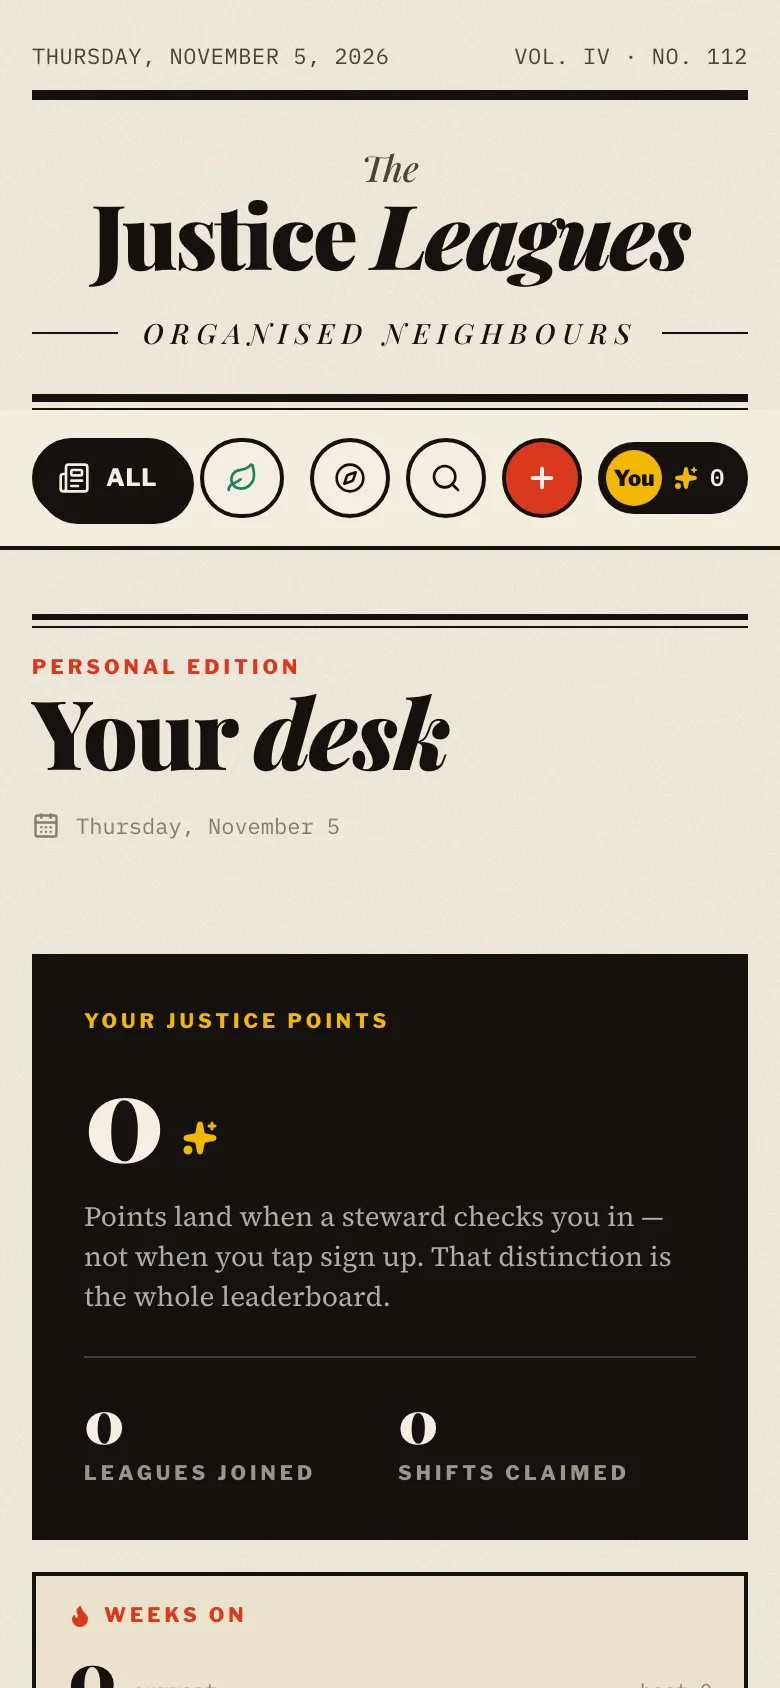
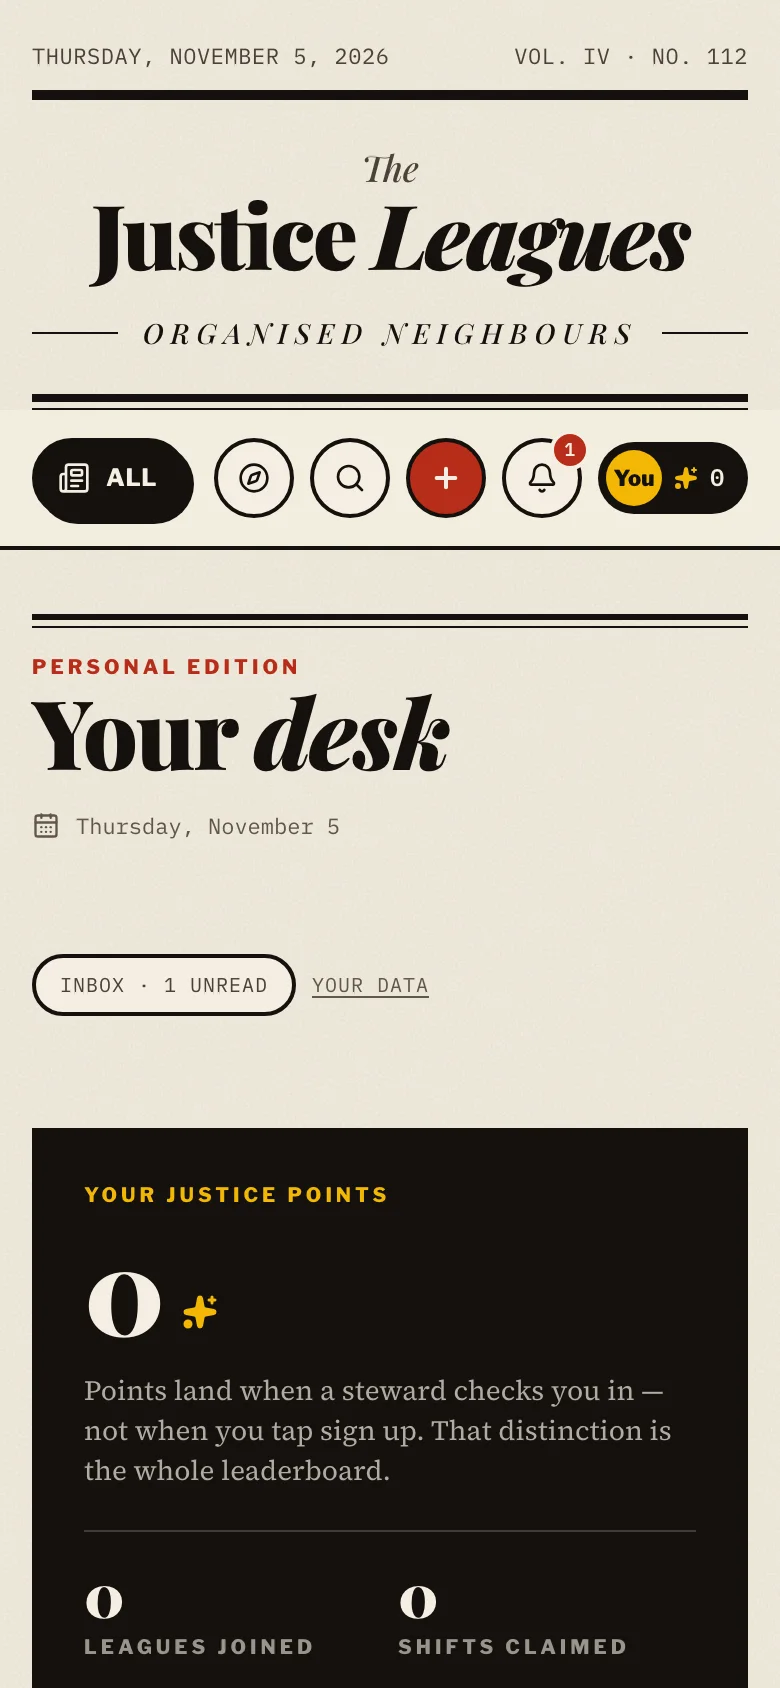
Document Phase 5 and refresh the visual set

diff --git a/README.md b/README.md
@@ -4,14 +4,14 @@
 
 <div align="center">
   <a href="https://github.com/Abhinav-Prabhakar/JusticeLeagues/stargazers"><img src="https://img.shields.io/github/stars/Abhinav-Prabhakar/JusticeLeagues?style=flat-square&labelColor=14110d&color=f2b705" alt="Stars" /></a>
-  <a href="https://github.com/Abhinav-Prabhakar/JusticeLeagues/commits/main"><img src="https://img.shields.io/github/last-commit/Abhinav-Prabhakar/JusticeLeagues?style=flat-square&labelColor=14110d&color=1b7f5c" alt="Last commit" /></a>
-  <a href="LICENSE"><img src="https://img.shields.io/github/license/Abhinav-Prabhakar/JusticeLeagues?style=flat-square&labelColor=14110d&color=d9381e" alt="License" /></a>
-  <img src="https://img.shields.io/badge/tests-98_unit_%C2%B7_24_e2e-1b7f5c?style=flat-square&labelColor=14110d" alt="Tests" />
+  <a href="https://github.com/Abhinav-Prabhakar/JusticeLeagues/commits/main"><img src="https://img.shields.io/github/last-commit/Abhinav-Prabhakar/JusticeLeagues?style=flat-square&labelColor=14110d&color=14694d" alt="Last commit" /></a>
+  <a href="LICENSE"><img src="https://img.shields.io/github/license/Abhinav-Prabhakar/JusticeLeagues?style=flat-square&labelColor=14110d&color=b82d19" alt="License" /></a>
+  <img src="https://img.shields.io/badge/tests-113_unit_%C2%B7_28_e2e-14694d?style=flat-square&labelColor=14110d" alt="Tests" />
   <img src="https://img.shields.io/badge/react-19-2347c5?style=flat-square&labelColor=14110d" alt="React 19" />
   <img src="https://img.shields.io/badge/typescript-strict-2347c5?style=flat-square&labelColor=14110d" alt="TypeScript" />
   <img src="https://img.shields.io/badge/sqlite-local_only-f2b705?style=flat-square&labelColor=14110d" alt="SQLite" />
-  <img src="https://img.shields.io/badge/node-%E2%89%A522.5-1b7f5c?style=flat-square&labelColor=14110d" alt="Node 22.5+" />
-  <a href="https://abhinav-prabhakar.github.io/JusticeLeagues/"><img src="https://img.shields.io/badge/static_edition-live-1b7f5c?style=flat-square&labelColor=14110d" alt="Static edition" /></a>
+  <img src="https://img.shields.io/badge/node-%E2%89%A522.5-14694d?style=flat-square&labelColor=14110d" alt="Node 22.5+" />
+  <a href="https://abhinav-prabhakar.github.io/JusticeLeagues/"><img src="https://img.shields.io/badge/static_edition-live-14694d?style=flat-square&labelColor=14110d" alt="Static edition" /></a>
 </div>
 
 <h3 align="center">A local-first civic newspaper for citywide leagues, neighbourhood chapters,<br/>volunteer shifts, and Justice Points.</h3>
@@ -42,6 +42,12 @@
 - **Badges and weeks on.** Thirteen badges and a streak are earned from the record, not handed out. Your desk shows what you have and what is next.
 - **A public record.** Every award lands on [`/ledger`](src/routes/LedgerPage.tsx) with its author, kind, and delta. A steward correction appends a negative row; it never rewrites history.
 - **A review desk, not a rubber stamp.** Soft caps and evidence-free projects queue for a steward, who can clear or reverse with an auditable note.
+- **A postbag that fills itself.** Every signup, approval, reminder, waitlist promotion, and moderation decision writes an inbox row inside the same transaction as the action. The masthead bell counts what is unread.
+- **A report, not a takedown.** Any signed-in neighbour can flag a resource, project, or shift. A report never hides anything by itself; a steward or the editor decides, and hiding keeps the record.
+- **An editor's desk for strangers.** The [`/admin`](src/routes/Admin.tsx) console lists open reports, people, feature flags, and the audit log. Three upheld strikes pause posting for a fortnight; the editor can restore early. Every action writes an audit row.
+- **Safeguarding by default.** Registration needs an age confirmation; 16- and 17-year-olds need guardian consent, and their handle and email are withheld from every public roster, ledger entry, and admin row.
+- **Your data, in your hands.** [`/privacy`](src/routes/Privacy.tsx) explains exactly what the local paper keeps, exports it as JSON, and deletes the account while anonymising the ledger. [`/terms`](src/routes/Terms.tsx) is the house rules in plain language.
+- **WCAG 2.2 AA, not aspirational.** Every route scores 100 in Lighthouse accessibility: keyboard reachable, focus visible, touch targets sized, contrast checked, headings in order.
 - **A real impact page.** Chapter, category, and month totals are aggregated from the ledger, and the chapter bars always sum to the league total.
 - **Server-authored Justice Points.** Append-only ledger. Joining awards +25 once; signup mints nothing; check-in awards hours × 12 (capped at 80); an approved project awards `50 + 4×hours + 2×people`, clamped 50–500.
 
@@ -69,6 +75,14 @@
   <tr>
     <td width="50%"><a href="docs/screenshots/invite.webp"><img src="docs/screenshots/invite.webp" alt="A single-use league invitation with the invited chapter and role" /></a><br/><sub><b>The invitation</b> · a single-use link, filed under a chapter</sub></td>
     <td width="50%"><a href="docs/screenshots/settings.webp"><img src="docs/screenshots/settings.webp" alt="League settings for identity, recruiting, and archiving" /></a><br/><sub><b>The masthead</b> · stewards edit, the owner archives</sub></td>
+  </tr>
+  <tr>
+    <td width="50%"><a href="docs/screenshots/inbox.webp"><img src="docs/screenshots/inbox.webp" alt="The notification inbox with unread notices, filters, and mark-all-read" /></a><br/><sub><b>The inbox</b> · signups, reminders, and moderation notices</sub></td>
+    <td width="50%"><a href="docs/screenshots/admin-reports.webp"><img src="docs/screenshots/admin-reports.webp" alt="The editor's report queue with dismiss, hide, and hide-plus-strike decisions" /></a><br/><sub><b>The editor's desk</b> · reports, strikes, flags, and audit</sub></td>
+  </tr>
+  <tr>
+    <td width="50%"><a href="docs/screenshots/privacy.webp"><img src="docs/screenshots/privacy.webp" alt="Privacy and data controls with export and delete" /></a><br/><sub><b>Privacy &amp; data</b> · what is kept, exported, and deleted</sub></td>
+    <td width="50%"><a href="docs/screenshots/terms.webp"><img src="docs/screenshots/terms.webp" alt="The house rules in plain language" /></a><br/><sub><b>House rules</b> · the charter in practice</sub></td>
   </tr>
   <tr>
     <td colspan="2"><a href="docs/screenshots/leagues.webp"><img src="docs/screenshots/leagues.webp" alt="The Atlas with search, cause filters, a radius filter, and distance labels" /></a><br/><sub><b>The Atlas</b> · search, causes, and a walkable radius</sub></td>
@@ -155,17 +169,18 @@ A fresh seed gives every chapter a steward. The founding chapter's steward owns 
 steward.harbor.1@justiceleagues.local   # owner, Mill River Docks
 steward.harbor.2@justiceleagues.local   # steward, City Centre
 steward.harbor.3@justiceleagues.local   # steward, Eastside
+admin@justiceleagues.local              # the editor's desk
 ```
 
-Swap `harbor` for any league id (`spoke`, `ridgeline`, `civic`, …) and `1`–`3` for a chapter. These are local demo accounts — nothing leaves the machine.
+Swap `harbor` for any league id (`spoke`, `ridgeline`, `civic`, …) and `1`–`3` for a chapter. These are local demo accounts — nothing leaves the machine. The editor can open `/admin` to see reports, strikes, flags, and the audit log.
 
 ## Checks
 
 ```bash
 npm run typecheck
 npm run lint
-npm run test       # 98 unit + API integration tests
-npm run test:e2e   # 24 Playwright tests, isolated :8788 / :5174 / data/e2e.db
+npm run test       # 113 unit + API integration tests
+npm run test:e2e   # 28 Playwright tests, isolated :8788 / :5174 / data/e2e.db
 npm run shots      # design-review screenshots → /tmp/jl-shots
 ```
 

diff --git a/DESIGN.md b/DESIGN.md
@@ -99,26 +99,29 @@ Defined in `src/index.css` under `@theme`. Never hard-code these values.
 
 **Paper / ink**
 
-| Token     | Value     | Use                 |
-| --------- | --------- | ------------------- |
-| `paper`   | `#f4eee1` | page                |
-| `paper-2` | `#ebe2cd` | wells, hovers       |
-| `paper-3` | `#ddd1b5` | rules, empty states |
-| `ink`     | `#14110d` | type, borders       |
-| `ink-2`   | `#4a4338` | secondary           |
+| Token     | Value     | Use                                 |
+| --------- | --------- | ----------------------------------- |
+| `paper`   | `#f4eee1` | page                                |
+| `paper-2` | `#ebe2cd` | wells, hovers                       |
+| `paper-3` | `#ddd1b5` | rules, empty states                 |
+| `ink`     | `#14110d` | type, borders                       |
+| `ink-2`   | `#4a4338` | secondary                           |
 | `ink-3`   | `#605747` | tertiary / captions (AA on paper-3) |
 
 **Editorial accents**
 
-| Token       | Value     | Use                        |
-| ----------- | --------- | -------------------------- |
-| `vermilion` | `#b82d19` | breaking, live, energy (AA text) |
-| `cobalt`    | `#2347c5` | safety / civic             |
-| `mustard`   | `#f2b705` | points, medals, highlights |
+| Token       | Value     | Use                                |
+| ----------- | --------- | ---------------------------------- |
+| `vermilion` | `#b82d19` | breaking, live, energy (AA text)   |
+| `cobalt`    | `#2347c5` | safety / civic                     |
+| `mustard`   | `#f2b705` | points, medals, highlights         |
 | `forest`    | `#14694d` | climate / positive delta (AA text) |
-| `rose`      | `#e0607e` | housing                    |
-| `violet`    | `#7a3fb0` | learning                   |
-| `teal`      | `#0f8b9d` | health                     |
+| `rose`      | `#e0607e` | housing                            |
+| `violet`    | `#7a3fb0` | learning                           |
+| `teal`      | `#0f8b9d` | health                             |
+
+Cause colours live in `CAUSES` (`src/data.ts`) and must match the palette above.
+`onColor(background)` picks paper or ink for type and icons on a cause fill.
 
 **Type**
 
@@ -150,7 +153,9 @@ Every new component must pass all of these before review.
 - [ ] Hover-only content also available on focus and tap.
 - [ ] `aria-pressed` / `aria-expanded` / `aria-label` where state is visual.
 - [ ] Contrast ≥ 4.5:1 for text, ≥ 3:1 for large text and UI edges.
+- [ ] Type on a cause colour uses `onColor()`; never assume paper reads on mustard.
 - [ ] Colour never the only signal — pair with icon, shape, or label.
+- [ ] Contact details for a young neighbour never render; use `handleLabel()`.
 - [ ] Images have `alt`; decorative SVG is `aria-hidden`.
 - [ ] Fixed aspect ratios; no layout shift; lazy images below the fold.
 - [ ] Numbers use `tabular-nums` and `toLocaleString`.
@@ -163,21 +168,25 @@ Every new component must pass all of these before review.
 
 ## 5. Reusable patterns
 
-| Pattern             | Source                    | Notes                                  |
-| ------------------- | ------------------------- | -------------------------------------- |
-| Masthead / dateline | `Masthead.tsx`            | date left, volume right, thick rule    |
-| Section head        | `lib.tsx → SectionHead`   | double rule, kicker, italic title      |
-| Cause emblem        | `lib.tsx → Emblem`        | roundel default; shield / hex variants |
-| Halftone photo      | `lib.tsx → Photo`         | hover colour reveal                    |
-| Count-up            | `lib.tsx → CountUp`       | in-view triggered, `tabular-nums`      |
-| Sparkline           | `lib.tsx → Sparkline`     | draw-on-play, no axes                  |
-| Reveal              | `lib.tsx → Reveal`        | in-view fade/rise, once                |
-| Expand row          | `.expand` + `[data-open]` | grid-rows, no JS height math           |
-| Ticket stub         | `Dispatch.tsx`            | perforated edge + cause colour         |
-| Chip filter         | `Masthead.tsx → NavChip`  | icon collapsed, label on hover/active  |
-| Hard-shadow button  | `.btn-press`              | press-down physics                     |
-| Drawer              | `Drawer.tsx`              | right sheet, ESC + backdrop close      |
-| Toast               | `ctx.tsx`                 | bottom-centre, single at a time        |
+| Pattern             | Source                     | Notes                                   |
+| ------------------- | -------------------------- | --------------------------------------- |
+| Masthead / dateline | `Masthead.tsx`             | date left, volume right, thick rule     |
+| Section head        | `lib.tsx → SectionHead`    | double rule, kicker, italic title       |
+| Cause emblem        | `lib.tsx → Emblem`         | roundel default; shield / hex variants  |
+| Halftone photo      | `lib.tsx → Photo`          | hover colour reveal                     |
+| Count-up            | `lib.tsx → CountUp`        | in-view triggered, `tabular-nums`       |
+| Sparkline           | `lib.tsx → Sparkline`      | draw-on-play, no axes                   |
+| Reveal              | `lib.tsx → Reveal`         | in-view fade/rise, once                 |
+| Expand row          | `.expand` + `[data-open]`  | grid-rows, no JS height math            |
+| Ticket stub         | `Dispatch.tsx`             | perforated edge + cause colour          |
+| Chip filter         | `Masthead.tsx → NavChip`   | icon collapsed, label on hover/active   |
+| Hard-shadow button  | `.btn-press`               | press-down physics                      |
+| Drawer              | `Drawer.tsx`               | right sheet, ESC + backdrop close       |
+| Toast               | `ctx.tsx`                  | bottom-centre, single at a time         |
+| Inbox row           | `Inbox.tsx`                | kind icon, unread dot, destination link |
+| Report dialog       | `ReportButton.tsx`         | modal, ESC close, focus returns to flag |
+| Desk tabs           | `Admin.tsx`                | URL-synced, `aria-pressed`, one panel   |
+| Policy page         | `Privacy.tsx`, `Terms.tsx` | plain-language sections, data controls  |
 
 When adding a pattern, add it here and give it one home. No copy-paste variants.
 

diff --git a/ROADMAP.md b/ROADMAP.md
@@ -1,10 +1,13 @@
 # Justice Leagues — Prototype → Production Plan
 
-Status: **Phase 4 complete**. The ledger is the single source of truth, the
+Status: **Phase 5 complete**. The ledger is the single source of truth, the
 standings cache and leaderboard are real, badges and streaks are earned from
 the record, and stewards have an anomaly queue with an append-only reversal
-tool. The atlas now carries real coordinates, FTS5 discovery with distance
-filters, shareable chapter pages, and a printed league profile.
+tool. The atlas carries real coordinates, FTS5 discovery with distance
+filters, shareable chapter pages, and a printed league profile. The paper now
+runs itself: a transactional inbox, a report-and-review queue, an editor's desk
+with strikes and audit, account export/delete, safeguarding for young
+neighbours, and a WCAG 2.2 AA accessibility pass.
 
 Design constraints for every phase: [`DESIGN.md`](./DESIGN.md).
 
@@ -328,16 +331,36 @@ a 5 km search to opening the nearest league and joining it. The same suite
 covers cause + radius filters, URL sync, geolocation, chapter pages, the print
 view, and phone-width overflow.
 
-### Phase 5 — Trust, comms, and operations (2 weeks)
+### Phase 5 — Trust, comms, and operations (2 weeks) — **complete**
 
-- In-app notifications inbox (signup, approval, reminder, waitlist promotion).
-- Moderation: report content, steward hide, admin queue, strike policy.
-- Admin console: users, leagues, reports, point reversals, feature flags.
-- Audit log; data export/delete; local privacy + terms; photo consent language.
-- Safeguarding: age gate, no minor contact details exposed, steward guidance.
-- Accessibility audit to WCAG 2.2 AA; fix all keyboard/touch parity gaps.
+- In-app notifications inbox (signup, approval, reminder, waitlist promotion). ✅
+  Every notice is a row written inside the transaction that caused it; the
+  masthead bell reads `MeDTO.unread` and the inbox filters all/unread.
+- Moderation: report content, steward hide, admin queue, strike policy. ✅
+  Reports dedupe per reporter and item; hiding keeps the record; three upheld
+  strikes pause posting for 14 days while reading, joining, and reporting stay
+  open.
+- Admin console: users, leagues, reports, point reversals, feature flags. ✅
+  `/admin` carries overview, reports, people, flags, and audit tabs; role
+  changes and self-demotion are guarded.
+- Audit log; data export/delete; local privacy + terms; photo consent language. ✅
+  `/privacy` exports a JSON copy and deletes the profile while anonymising the
+  ledger; `/terms` states the house rules; registration carries photo consent.
+- Safeguarding: age gate, no minor contact details exposed, steward guidance. ✅
+  Registration requires an age confirmation; teens require guardian consent;
+  handles and emails are masked in every DTO and fall back to display names.
+- Accessibility audit to WCAG 2.2 AA; fix all keyboard/touch parity gaps. ✅
+  Tokens darkened to AA, cause fills use `onColor()`, shape and scale controls
+  expose names and pressed state, headings are ordered, and every route scores
+  100 in Lighthouse accessibility.
 
-**Exit:** can operate with strangers without the founder manually fixing data.
+**Exit:** met — `e2e/phase5.spec.ts` walks a new account through the inbox, a
+reporter through the report form and the editor's hide decision, a 16-year-old
+through guardian consent and public masking, and every new page through a
+390px viewport with no overflow. The API suite covers the age gate, guardian
+consent, dedupe, strikes and restoration, admin gates, flags, audit, export,
+and delete. A stranger can now run a league without the founder editing the
+database by hand.
 
 ### Phase 6 — Hardening and launch (2 weeks)
 
@@ -441,8 +464,9 @@ rollback plan.
     badges, and the anomaly queue + public ledger page (Phase 3). ✅
 17. Add real coordinates, FTS5 search, shareable chapter pages, and the printed
     league profile (Phase 4). ✅
-18. Next: notifications, moderation, the admin console, safeguarding, and an
-    accessibility pass (Phase 5).
+18. Ship notifications, moderation, the admin console, safeguarding, and an
+    accessibility pass (Phase 5). ✅
+19. Next: performance, observability, load tests, and a pilot (Phase 6).
 
 Done when: a stranger can join a league, claim a shift, and see verified points
 that a steward — not a browser — awarded. **Met.**
